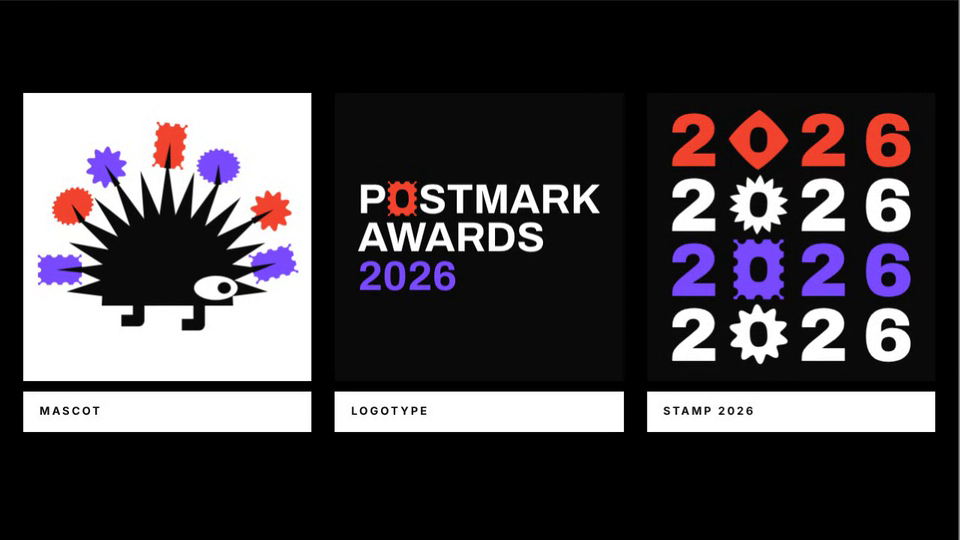
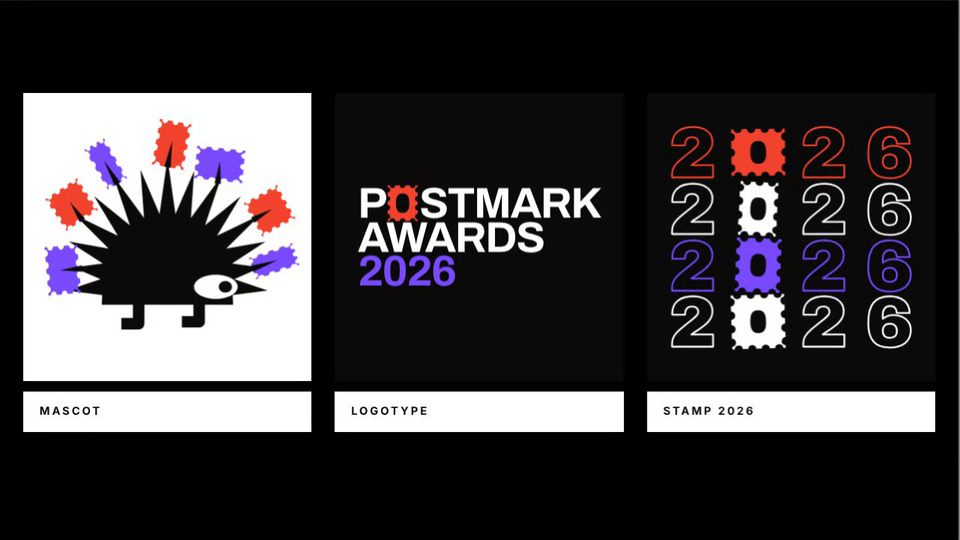
Postmark brand visuals: rectangular stamps, outlined 2026 with tighter rows, tighter logotype
Claude-Session: https://claude.ai/code/session_01AHeBe11E2oZW8Zsz7RdnLE

diff --git a/postmark-awards-brand-visuals/index.html b/postmark-awards-brand-visuals/index.html
@@ -31,7 +31,7 @@ figcaption{margin-top:14px;padding:18px 22px;background:var(--white);color:var(-
 <div class="grid">
   <figure><canvas id="cMascot" role="img" aria-label="A flat black porcupine with purple and red postage stamps stuck on the tips of its quills"></canvas><figcaption>Mascot</figcaption></figure>
   <figure><canvas id="cLogo" role="img" aria-label="Postmark Awards 2026 logotype in white on black, where the O in Postmark is a thick red outline of a postage stamp that stamps down"></canvas><figcaption>Logotype</figcaption></figure>
-  <figure><canvas id="cYear" role="img" aria-label="2026 repeated in four rows, where the zero is a thick outline stamp that changes shape: perforated stamp, scalloped flower, four point sparkle and starburst"></canvas><figcaption>Stamp 2026</figcaption></figure>
+  <figure><canvas id="cYear" role="img" aria-label="2026 repeated in four rows, where the digits are outlined and the zero is a thick outline stamp that changes between portrait, square and landscape perforated stamps"></canvas><figcaption>Stamp 2026</figcaption></figure>
 </div>
 </main>
 <script>
@@ -46,13 +46,14 @@ const HP = new URLSearchParams(location.hash.slice(1));
 const SANS = '"Archivo","Helvetica Neue",Helvetica,Arial,sans-serif', BLACKFACE = '"Archivo Black","Arial Black","Helvetica Neue",Arial,sans-serif';
 
 /* ===== stamp shapes: every shape is N points walked clockwise from the top, so two shapes can morph point by point ===== */
-const N = 540;
+const N = 1000;
+const RECT = { stamp: [0.84, 1], square: [1, 1], wide: [1, 0.86], tall: [0.7, 1] };
 function pt(kind, u) {
   const th = TAU * u - Math.PI / 2, c = Math.cos(th), s = Math.sin(th);
-  if (kind === 'stamp') { // perforated postage stamp
-    const aw = 0.84, ah = 1, kx = Math.abs(c) < 1e-9 ? 1e9 : aw / Math.abs(c), ky = Math.abs(s) < 1e-9 ? 1e9 : ah / Math.abs(s);
+  if (RECT[kind]) { // perforated postage stamp (portrait, square or landscape)
+    const [aw, ah] = RECT[kind], kx = Math.abs(c) < 1e-9 ? 1e9 : aw / Math.abs(c), ky = Math.abs(s) < 1e-9 ? 1e9 : ah / Math.abs(s);
     const k = Math.min(kx, ky); let x = c * k, y = s * k;
-    const vert = kx < ky, len = vert ? 2 * ah : 2 * aw, along = vert ? y : x, ne = vert ? 4 : 3, pitch = len / ne;
+    const vert = kx < ky, len = vert ? 2 * ah : 2 * aw, along = vert ? y : x, ne = Math.max(2, Math.round(len / 0.5)), pitch = len / ne;
     const f = ((along + len / 2) / pitch) % 1, d = (f - 0.5) * pitch, rb = 0.15, depth = Math.abs(d) < rb ? Math.sqrt(rb * rb - d * d) : 0;
     if (vert) x -= Math.sign(x) * depth; else y -= Math.sign(y) * depth;
     return [x, y];
@@ -79,8 +80,8 @@ function ringStamp(ctx, x, y, R, rot, P, color, hs = 1) {
 /* ===== 1. Mascot ===== */
 const SPIKES = 15, CX = 500, CY = 652, R0 = 232;
 const STAMPS = [ // [spike index, shape, colour, half width, half height, tilt]
-  [1, 'stamp', PURPLE, 62, 76, -0.2], [3, 'seal', RED, 80, 62, 0.3], [5, 'flower', PURPLE, 72, 72, -0.15], [7, 'stamp', RED, 64, 78, 0.12],
-  [9, 'seal', PURPLE, 80, 62, -0.35], [11, 'flower', RED, 72, 72, 0.2], [13, 'stamp', PURPLE, 62, 76, -0.1],
+  [1, 'wide', PURPLE, 84, 66, -0.2], [3, 'square', RED, 66, 66, 0.3], [5, 'tall', PURPLE, 56, 80, -0.15], [7, 'stamp', RED, 66, 80, 0.12],
+  [9, 'wide', PURPLE, 84, 66, -0.35], [11, 'square', RED, 66, 66, 0.2], [13, 'tall', PURPLE, 56, 80, -0.1],
 ];
 const TIPS = [352, 330, 368, 392, 388, 408, 396, 424, 392, 410, 388, 394, 366, 328, 350];
 const spikeAng = (k) => Math.PI - 0.1 + k * (Math.PI + 0.2) / (SPIKES - 1);
@@ -122,12 +123,12 @@ function drawMascot(ctx, W, H, t) {
 /* ===== 2. Logotype ===== */
 function drawLogo(ctx, W, H, t) {
   ctx.fillStyle = BLACK; ctx.fillRect(0, 0, W, H);
-  ctx.font = '700 100px ' + SANS; ctx.textBaseline = 'alphabetic';
+  ctx.font = '700 100px ' + SANS; ctx.textBaseline = 'alphabetic'; ctx.letterSpacing = '-3px';
   const m = (s) => ctx.measureText(s).width, cap100 = ctx.measureText('H').actualBoundingBoxAscent;
   const ow100 = cap100 * 1.06, g100 = cap100 * 0.03, total = m('P') + ow100 + 2 * g100 + m('STMARK');
   const k = (W * 0.84) / total, fs = 100 * k, cap = cap100 * k;
-  ctx.font = '700 ' + fs + 'px ' + SANS;
-  const x0 = W * 0.08, lh = cap * 1.34, y0 = (H - (cap + 2 * lh)) / 2 + cap, g = g100 * k, ow = ow100 * k;
+  ctx.font = '700 ' + fs + 'px ' + SANS; ctx.letterSpacing = (-3 * k) + 'px';
+  const x0 = W * 0.08, lh = cap * 1.14, y0 = (H - (cap + 2 * lh)) / 2 + cap, g = g100 * k, ow = ow100 * k;
   ctx.fillStyle = WHITE; ctx.fillText('P', x0, y0);
   const sx = x0 + ctx.measureText('P').width + g, stampX = sx + ow / 2, stampY = y0 - cap / 2;
   ctx.fillText('STMARK', sx + ow + g, y0); ctx.fillText('AWARDS', x0, y0 + lh);
@@ -141,23 +142,23 @@ function drawLogo(ctx, W, H, t) {
 }
 
 /* ===== 3. Repeating 2026 with a stamp for the zero ===== */
-const KINDS = ['stamp', 'flower', 'sparkle', 'burst'], ROWS = [RED, WHITE, PURPLE, WHITE];
+const KINDS = ['stamp', 'square', 'wide', 'tall'], ROWS = [RED, WHITE, PURPLE, WHITE];
 function drawYear(ctx, W, H, t) {
   ctx.fillStyle = BLACK; ctx.fillRect(0, 0, W, H);
-  const cw = 225, ch = 225, x0 = (W - cw * 4) / 2, y0 = (H - ch * 4) / 2;
-  ctx.font = '400 262px ' + BLACKFACE; ctx.textBaseline = 'alphabetic';
+  const cw = 228, ch = 196, x0 = (W - cw * 4) / 2, y0 = (H - ch * 4) / 2;
+  ctx.font = '400 250px ' + BLACKFACE; ctx.lineWidth = 6; ctx.lineJoin = 'round'; ctx.textBaseline = 'alphabetic';
   const seg = t / 1.5, fl = Math.floor(seg), fr = seg - fl, mo = ease((fr - 0.5) / 0.5);
   for (let r = 0; r < 4; r++) {
     const col = ROWS[r], cy = y0 + r * ch + ch / 2;
-    ctx.fillStyle = col;
+    ctx.fillStyle = col; ctx.strokeStyle = col;
     ['2', '0', '2', '6'].forEach((d, i) => {
       const cx = x0 + i * cw + cw / 2;
       if (d === '0') {
         const a = KINDS[(fl + r) % 4], b = KINDS[(fl + r + 1) % 4];
-        ringStamp(ctx, cx, cy, 104, 0.06 * Math.sin(TAU * t / 3 + r * 1.3), morph(a, b, mo), col);
+        ringStamp(ctx, cx, cy, 94, 0.06 * Math.sin(TAU * t / 3 + r * 1.3), morph(a, b, mo), col);
       } else {
         const mm = ctx.measureText(d), w = mm.actualBoundingBoxLeft + mm.actualBoundingBoxRight, h = mm.actualBoundingBoxAscent;
-        ctx.fillText(d, cx - w / 2 + mm.actualBoundingBoxLeft, cy + h / 2);
+        ctx.strokeText(d, cx - w / 2 + mm.actualBoundingBoxLeft, cy + h / 2);
       }
     });
   }
